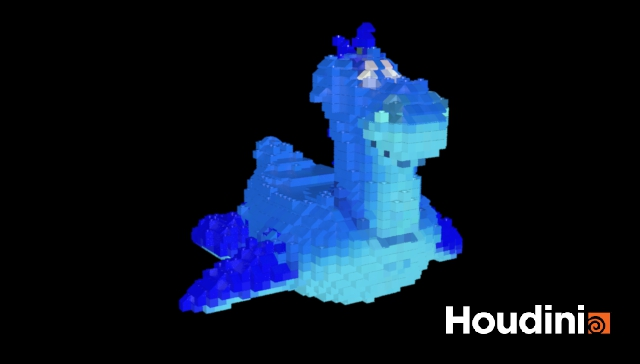
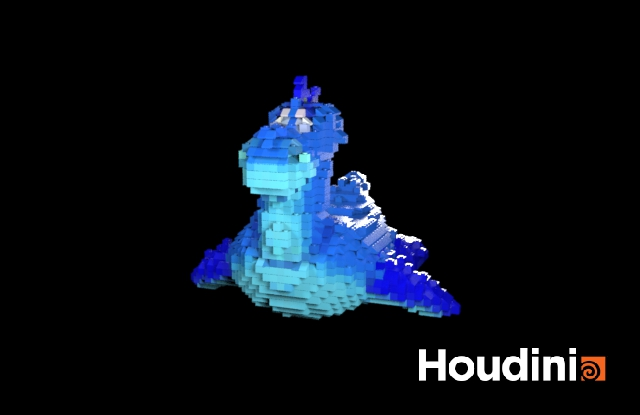
update three light

Changed region(s): [[0.2812, 0.0604, 0.75, 0.8764], [0.6562, 0.8159, 0.9688, 0.9368]]

diff --git a/README.md b/README.md
@@ -40,4 +40,5 @@ Here are examples for the geometry with different voxel size:
 | ![](res/0.1.png)| ![](res/0.05.png) | ![](res/0.03.png)|
 
 ### Simulation
-I use a `DOP network` node and `rigidbodysolver` node to simulate the physic motion of the dropping lego.
+I use a `DOP network` node and `rigidbodysolver` node to simulate the physic motion of the dropping lego. Also, I adopt a three-point light to render the final picture.
+![](res/three_light.png)
